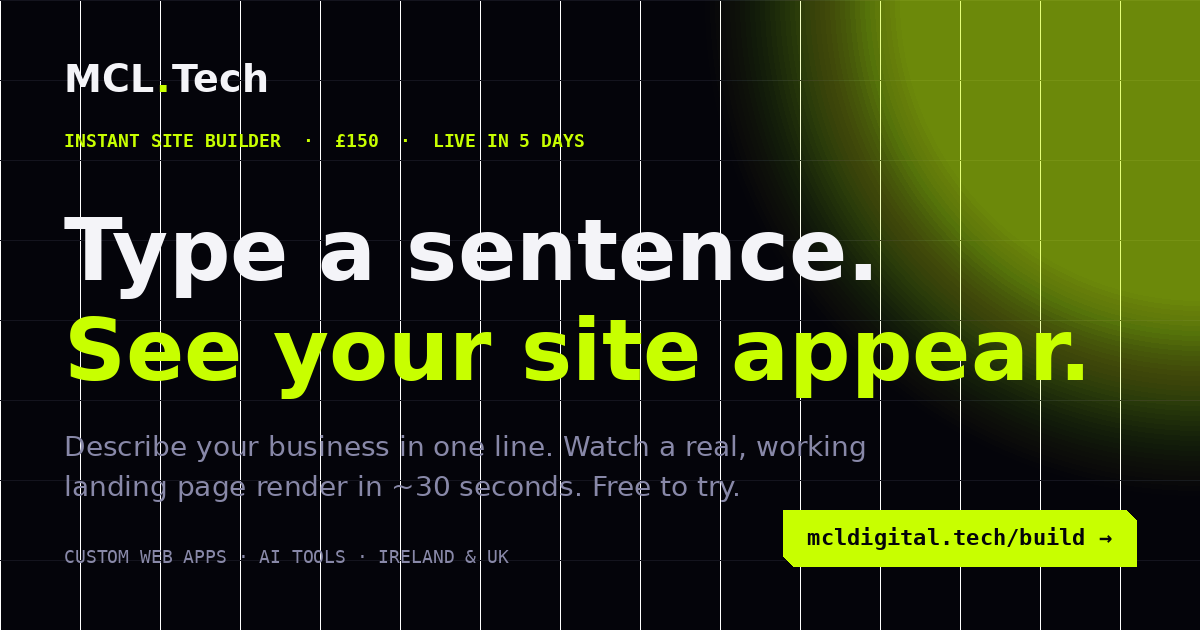
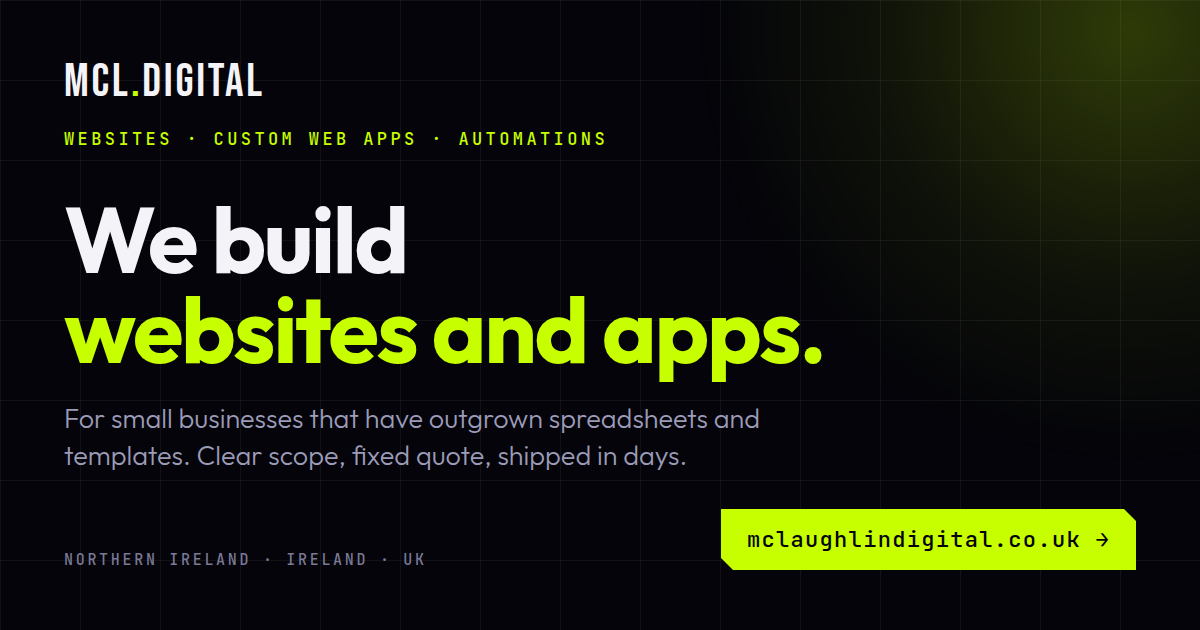
New social preview image; case study CTAs say "we" like the homepage (#21)
og-image.png still showed MCL.Tech, "£150" and mcldigital.tech/build,
which is what WhatsApp and LinkedIn render when the site link is shared.
Replaced with a 1200x630 card in the current dark style: MCL.Digital,
"We build websites and apps.", no price, mclaughlindigital.co.uk.

Both case study closing lines now read "the kind of app we build" to
match the homepage voice.

Claude-Session: https://claude.ai/code/session_017rGCzqjtHqzNtbJfYfZo43

diff --git a/r3-allocation.html b/r3-allocation.html
@@ -188,7 +188,7 @@ footer a:hover{color:var(--lime)}
 
 <section>
   <div class="cta">
-    <p>If your team is still moving stock on gut feel, this is the kind of app I build.</p>
+    <p>If your team is still moving stock on gut feel, this is the kind of app we build.</p>
     <a class="btn" href="/#contact">Get in touch →</a>
   </div>
 </section>

diff --git a/training-register.html b/training-register.html
@@ -185,7 +185,7 @@ footer a:hover{color:var(--lime)}
 
 <section>
   <div class="cta">
-    <p>If your team has outgrown a spreadsheet, this is the kind of app I build.</p>
+    <p>If your team has outgrown a spreadsheet, this is the kind of app we build.</p>
     <a class="btn" href="/#contact">Get in touch →</a>
   </div>
 </section>
